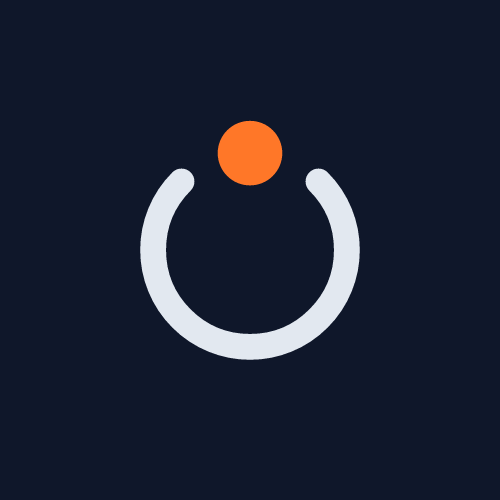
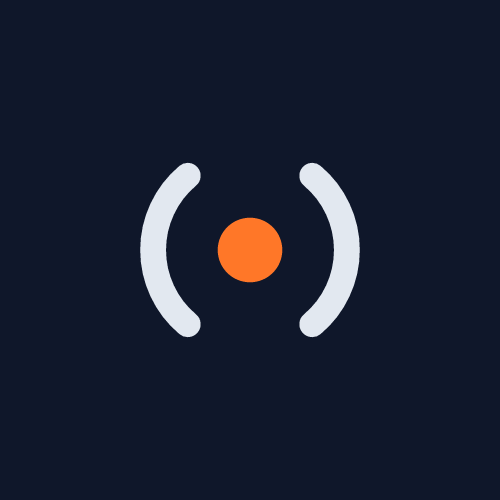
feat(brand): Beacon's mark is Signal: the family ring opened at the top and the bottom around the fire (the owner's choice)

diff --git a/brand/beacon.ts b/brand/beacon.ts
@@ -1,23 +1,27 @@
-// Beacon mark: Raised fire. The tower is Origin's ring (radius 15 around the centre), opened at the
-// top by 90 degrees; the fire, the accent point, sits in that opening on the rim, the moment the
-// alarm leaves the tower. One fire, as the towers of the Great Wall lit one for a small alarm.
+// Beacon mark: Signal. A fire (the accent point at the centre) and its signal carried
+// both ways along the wall: Origin's ring (radius 15 around the centre) opened at the top and the
+// bottom, leaving two ink arcs of 100 degrees each (50 on either side of the horizontal).
 // 48-unit grid, 4-unit margin; stroke 4 units, 5.5 in the small variant; the fire grows from
 // radius 5 to 6 with it, as Origin's point does.
+//
 
-export const name = 'Raised fire';
-export const zh = '举火';
+export const name = 'Signal';
+export const zh = '烽信';
 export const rationale =
-  'The tower is the family ring, opened at the top; the fire is on the rim, leaving the tower: an alarm on its way to people and agents.';
+  'A fire and the signal it sends to the towers on either side, as Beacon carries an alert to people and agents.';
 
 const n = (v: number): string => String(Math.round(v * 1000) / 1000);
 
-/** A point on the circle of radius r around (24, 24), at deg degrees clockwise from +x. */
-const p = (r: number, deg: number): string => {
-  const a = (deg * Math.PI) / 180;
-  return `${n(24 + r * Math.cos(a))} ${n(24 + r * Math.sin(a))}`;
+/** A clockwise arc around (24, 24) from angle a0 to a1 (degrees, clockwise from +x). */
+const arc = (r: number, a0: number, a1: number): string => {
+  const p = (deg: number): string => {
+    const a = (deg * Math.PI) / 180;
+    return `${n(24 + r * Math.cos(a))} ${n(24 + r * Math.sin(a))}`;
+  };
+  return `M${p(a0)}A${r} ${r} 0 0 1 ${p(a1)}`;
 };
 
 export const beacon = (stroke: number): string =>
-  // the ring, clockwise from -45 degrees round to 225 degrees: 270 degrees of ink, the opening at the top
-  `<path class="ink" d="M${p(15, -45)}A15 15 0 1 1 ${p(15, 225)}"/>` +
-  `<circle class="accent-f" cx="24" cy="9" r="${stroke > 4 ? 6 : 5}"/>`;
+  `<path class="ink" d="${arc(15, 130, 230)}"/>` +
+  `<path class="ink" d="${arc(15, -50, 50)}"/>` +
+  `<circle class="accent-f" cx="24" cy="24" r="${stroke > 4 ? 6 : 5}"/>`;

diff --git a/BRAND.md b/BRAND.md
@@ -28,7 +28,7 @@ An entry holds the name, tier and parent, the mark, the wordmark and an optional
 - **Line.** One stroke weight, 4 units, with round caps and joins. At 32 px and below the small variant uses 5.5 units so the mark stays legible; the favicon uses it.
 - **Interlocked rings.** Two rings of radius 10, centres 14 apart. Each passes under the other once: the left ring at the upper crossing, the right ring at the lower one. The gap where a ring passes under is the stroke width plus 1.25 units on each side.
 - **Ring and centre point.** A ring of radius 15 around a solid point of radius 5 (6 in the small variant).
-- **Beacon.** Its own mark, in [`brand/beacon.ts`](brand/beacon.ts), which documents its construction: the family ring as the tower, opened at the top by 90 degrees, and the fire (the accent point) on the rim in that opening, the moment an alarm leaves the tower.
+- **Beacon.** Its own mark, in [`brand/beacon.ts`](brand/beacon.ts), which documents its construction: the family ring opened at the top and the bottom, two arcs of 100 degrees on either side, around the fire (the accent point): the signal a beacon tower sends both ways along the wall.
 - **Wordmark.** A monoline alphabet drawn as paths in [`brand/wordmark.ts`](brand/wordmark.ts) (x-height 11, cap height 15, descender 5, stroke 2.6 font units). In a lockup the wordmark is scaled by 1.45 so its stroke matches the mark, sits 13 units to the right of the mark, and the descriptor follows 8 units after the name. Brand names are always set in Latin letters, in every language.
 - **Colour.** The left ring (or the ring around the origin, or the lines of Beacon's mark) is ink; the accent is the brand colour (Beacon's fire). Ink is `#0f172a` on light backgrounds and `#e2e8f0` on dark ones. App icons and cards use the ink tile `#0f172a` with the dark colourway.
 - **Paths only.** Marks contain no text, filters, external references, embedded fonts or inline colours; colours come from the classes `ink`, `accent`, `ink-f` and `accent-f`, so one geometry renders every colourway. The tests enforce this.

diff --git a/packages/vitepress-theme/CHANGELOG.md b/packages/vitepress-theme/CHANGELOG.md
@@ -6,7 +6,7 @@ Changes to `@openlinkos/vitepress-theme`, newest first. It shares its version wi
 
 ### Added
 
-- The Beacon brand (`brand: 'beacon'`): its favicons, app icons, web manifest, Open Graph image, README headers and brand kit, and Beacon in the family menu and the footer. Its colour is signal orange; its mark is the family ring opened at the top with the fire on the rim.
+- The Beacon brand (`brand: 'beacon'`): its favicons, app icons, web manifest, Open Graph image, README headers and brand kit, and Beacon in the family menu and the footer. Its colour is signal orange; its mark is the family ring opened at the top and the bottom around the fire, the signal going both ways along the wall.
 
 ### Changed
 
